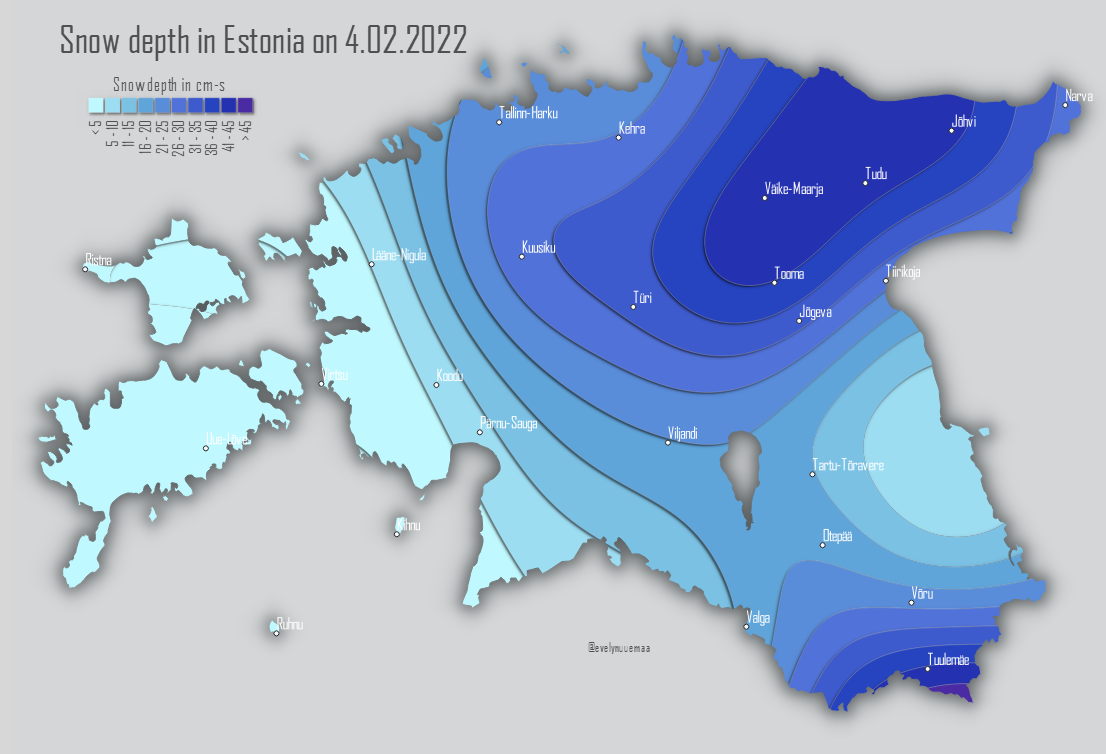
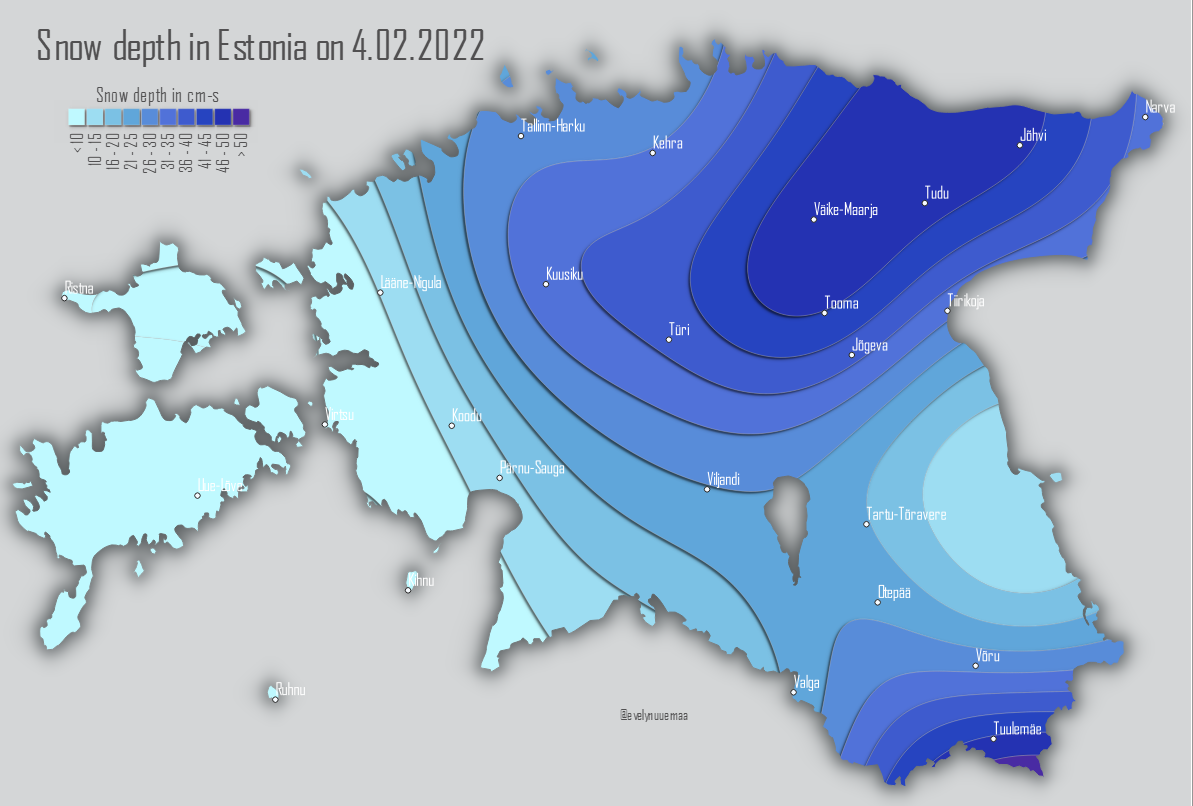
update on post

diff --git a/content/post/paper_cut.md b/content/post/paper_cut.md
@@ -37,3 +37,6 @@ To finalise the map, you can "crop" it with your study area borders by using Inv
 
 Finally, you can add the original point data with labels to the map. However, if you want to show the original values on the map then they might not align exactly with the interpolation like said before. Only IDW method would keep the exact ranges. Therefore I will show only weather station names on this map.
 ![image of contours final](../../images/blog/paper_8.png)
+
+The same map made with IDW interpolation would look like this:
+![image of contours final](../../images/blog/paper_9.png)
